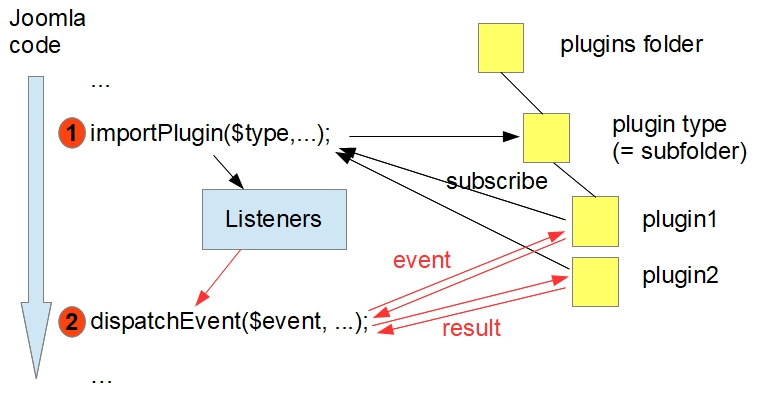
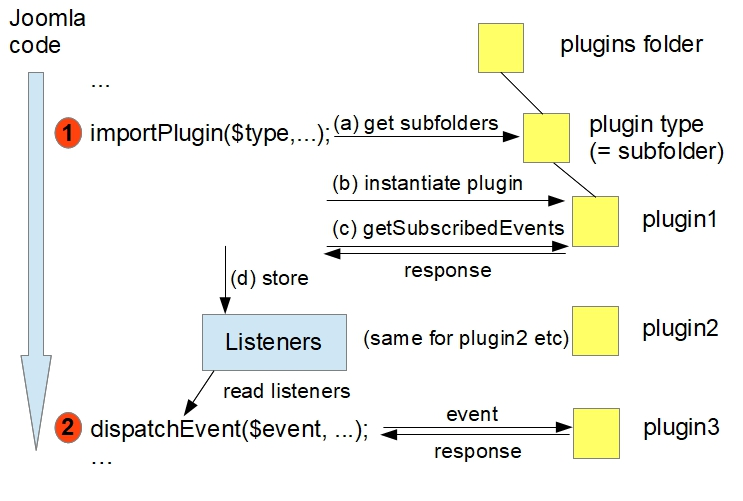
several fixes

Changed region(s): [[0.0, 0.0, 0.9906, 0.9286], [0.7429, 0.0619, 0.9596, 0.1548], [0.8668, 0.8357, 0.9906, 0.8976]]

diff --git a/versioned_docs/version-4.4/building-extensions/plugins/basic-content-plugin.md b/versioned_docs/version-4.4/building-extensions/plugins/basic-content-plugin.md
@@ -4,9 +4,9 @@ sidebar_position: 3
 ---
 # Introduction
 In this section we develop a plugin to provide a feature similar to the shortcodes feature in Wordpress. With this we can include in an article a reference to a field:
-
+```
 On my Joomla instance {sitename} the default editor is {editor}.
-
+```
 The fields will be restricted to the global params (defined in `configuration.php`), and the plugin will modify the article to output what these params are set to, so that what is displayed is something like:
 
 On my Joomla instance j442 the default editor is tinymce.
@@ -24,8 +24,7 @@ The diagram shows the plugin files to write, or you can download a zip file of t
 # Manifest File
 For general information on manifest files see [Manifest Files](https://docs.joomla.org/Manifest_files).
 
-**plg_shortcodes/shortcodes.xml**
-```xml
+```xml title="plg_shortcodes/shortcodes.xml"
 <?xml version="1.0" encoding="utf-8"?>
 <extension method="upgrade" type="plugin" group="content">
     <name>PLG_CONTENT_SHORTCODES</name>
@@ -46,30 +45,38 @@ For general information on manifest files see [Manifest Files](https://docs.joom
 	</languages>
 </extension>
 ```
+
 Joomla is quite particular when it comes to plugin manifest files, and it's easy to get something wrong and wonder why your plugin isn't working. Here are a number of things which you must get right.
 
 ## Plugin type/group
+
 ```xml
 <extension method="upgrade" type="plugin" group="content">
 ```
+
 Previous sections described plugin types as 'content', 'system', etc but here the `type` is "plugin" (as it's the type of the extension) and the `group` refers to the plugin type.
 
 ## Language constants
+
 ```xml
 <name>PLG_CONTENT_SHORTCODES</name>
 <description>PLG_CONTENT_SHORTCODES_DESCRIPTION</description>
 ```
+
 You don't have to use language strings here, but if you do then you should provide the values of them in your language `.sys.ini` file. (The name and description are displayed in the administrator plugins form).
 
 ## Namespacing
+
 ```xml
 <namespace path="src">My\Plugin\Content\Shortcodes</namespace>
 ```
+
 Strictly speaking you don't have to follow the Joomla-recommended approach of 
 
 ```php
 Mycompany\Plugin\<plugin type>\<plugin name>
 ```
+
 However you must ensure that your namespace prefix here matches:
 - the `use` statement in your services/provider.php file, and,
 - the `namespace` statement in your main Extension class
@@ -79,28 +86,32 @@ and that all your classes are under the `/src` folder specified in the `path` at
 If you run into namespacing problems then it can be useful to check the `administrator/cache/autoload_psr4.php` to verify that your plugin's namespace prefix is pointing to where you expect. This cached file is regenerated whenever you install any extension (provided the `Extension - Namespace Updater` plugin is enabled), but if you're making changes directly in your Joomla site code then you may need to delete the cached file; it will be regenerated when you next navigate to your Joomla instance.
 
 ## Plugin entry point
+
 ```xml
 <files>
     <folder plugin="shortcodes">services</folder>
     <folder>src</folder>
 </files>
 ```
+
 Ensure that you specify where the entry point of your plugin is by using the `plugin="shortcodes"` on the folder. This also gets mapped to the `element` field in your admin plugins form.
 
 ## Language Files
+
 ```xml
 <languages>
     <language tag="en-GB">language/en-GB/plg_content_shortcodes.ini</language>
     <language tag="en-GB">language/en-GB/plg_content_shortcodes.sys.ini</language>
 </languages>
 ```
+
 Ensure that your plugin language files are named correctly. You must include in the filename:
 - the plugin type - matching the `<extension group=."..">` attribute, and
 - the plugin element - matching the `<folder plugin="...">` attribute.
 
 # Service Provider file
-**plg_shortcodes/services/provider.php**
-```php
+
+```php title="plg_shortcodes/services/provider.php"
 <?php
 
 use Joomla\CMS\Extension\PluginInterface;
@@ -132,35 +143,41 @@ use My\Plugin\Content\Shortcodes\Extension\Shortcode;
         }
     };
 ```
+
 This is pretty much boilerplate code for obtaining your plugin from the Dependency Injection Container, and you need to change just 3 lines from what seems to be standard code in Joomla core plugins.
+
 ```php
 use My\Plugin\Content\Shortcodes\Extension\Shortcode;
 ```
+
 Ensure that this aligns with your `<namespace>` in the manifest file and your `namespace` statement and class name in the Extension class file. .
 
 ```php
 $config = (array) PluginHelper::getPlugin('content', 'shortcodes');
 ```
+
 Ensure that this contains your plugin type and element, matching the manifest file.
 
 ```php
 $plugin = new Shortcode($subject, $config);
 ```
+
 Ensure that this matches your class in your `src/Extension` directory.
 
 ## Extension Class
 This is the main code of the plugin. Hopefully the comments in the code explain what is going on.
 
 As explained in [Joomla 4 and 5 changes](./joomla-4-and-5-changes), code which triggers the Events can use a `GenericEvent` or a concrete Event, eg `ContentPrepareEvent`. In both these cases you can get the arguments using
+
 ```php
 [$context, $article, $params, $page] = array_values($event->getArguments());
 ```
+
 but you have to check in your code how to return the result. 
 
-Using this approach means that you don't need to change your plugin code if the code which is triggering the event changes from using a generic Event class to a specific event class. 
+Using this approach means that you don't need to change your plugin code if the code which is triggering the event changes from using a generic Event class to a concrete event class. 
 
-**plg_shortcodes/src/Extension/Shortcode.php**
-```php
+```php title="plg_shortcodes/src/Extension/Shortcode.php"
 <?php
 namespace My\Plugin\Content\Shortcodes\Extension;
 
@@ -266,16 +283,14 @@ class Shortcode extends CMSPlugin implements SubscriberInterface
 # Language Files
 Language constants which are used in the manifest file:
 
-**plg_shortcodes/language/en-GB/plg_content_shortcodes.sys.ini**
-```php
+```php title="plg_shortcodes/language/en-GB/plg_content_shortcodes.sys.ini"
 PLG_CONTENT_SHORTCODES="Shortcodes Plugin"
 PLG_CONTENT_SHORTCODES_DESCRIPTION="Replaces article shortcodes (in {} brackets) with field values"
 ```
 
 Language constants which are used in the plugin code:
 
-**plg_shortcodes/language/en-GB/plg_content_shortcodes.ini**
-```php
+```php title="plg_shortcodes/language/en-GB/plg_content_shortcodes.ini"
 PLG_CONTENT_SHORTCODES_NO_MATCH="Error: no match for shortcode found"
 ```
 
@@ -283,9 +298,9 @@ PLG_CONTENT_SHORTCODES_NO_MATCH="Error: no match for shortcode found"
 Once you have copied the files into your local filesystem you can zip up the directory and install the extension. Remember to enable the plugin!
 
 Write an article with some text like:
-
+```
 On my Joomla instance {sitename} the default editor is {editor}.
-
+```
 Then navigate to a Joomla site menuitem which displays this article, either as a single article or as one of the featured articles. 
 
 The code should work on both Joomla 4 and Joomla 5, and should also display after the article title information about the type of event class used, and how the value is returned. 

diff --git a/versioned_docs/version-4.4/building-extensions/plugins/how-plugins-work.md b/versioned_docs/version-4.4/building-extensions/plugins/how-plugins-work.md
@@ -29,15 +29,16 @@ Plugins are categorised into types, and these types match the subdirectories wit
 For example, after Joomla is initialised the system plugins are imported (ie those in the plugins/system directory).
 
 Importing a plugin type involves:
-- finding all the plugins associated with a particular type - in the diagram these are shown as `plugin1` and `plugin2`, 
+- finding all the plugins associated with a particular type - in the diagram these are shown as `plugin1`, `plugin2` and `plugin3`, 
 - instantiating each of these plugins,
-- determining which events each plugin wants to subscribe to. The subscriptions are then held locally in a data store represented by the `Listeners` box in the diagram.
+- determining which events each plugin wants to subscribe to. 
+- writing the subscriptions to a data store represented by the `Listeners` box in the diagram.
 
 Splitting the plugins by plugin type in this way makes Joomla more performant - it doesn't need to process plugins which aren't going to be interested in the event which will be triggered next.
 
 The second step is triggering an event via a call to the event dispatcher. Joomla looks through its store of `Listeners` to determine which plugins have subscribed to that event type. It then calls the associated method of the subscribing plugin, and passes the event data to it, often allowing that data to be modified by the plugin code. 
 
-Each plugin which has subscribed to that event is called in turn (based on a priority scheme), and the result which is returned by the plugin can prevent the event from propagating further, or allow the propagation to continue. 
+Each plugin which has subscribed to that event is called in turn (based on a priority scheme), and any results returned by the plugins are collated into an array associated with the event. 
 
 As an example, after Joomla is initialised system plugins are imported and the event `onAfterInitialise` is triggered. The "Remember Me" plugin (in plugins/system/remember) receives notification of this, and can log in a user who has previously checked the "Remember Me" checkbox on the login form. 
 
